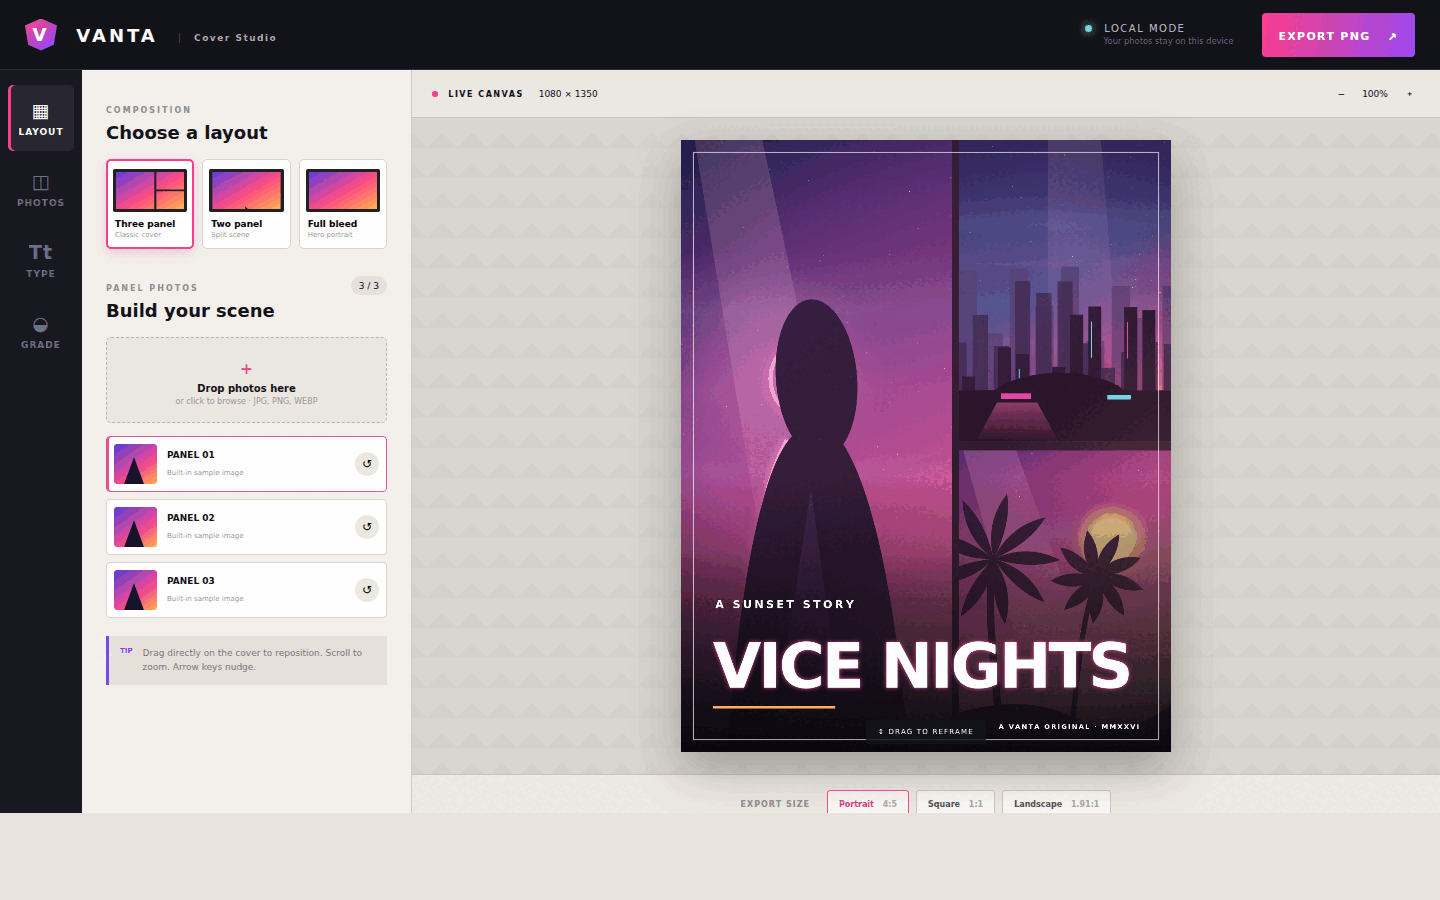
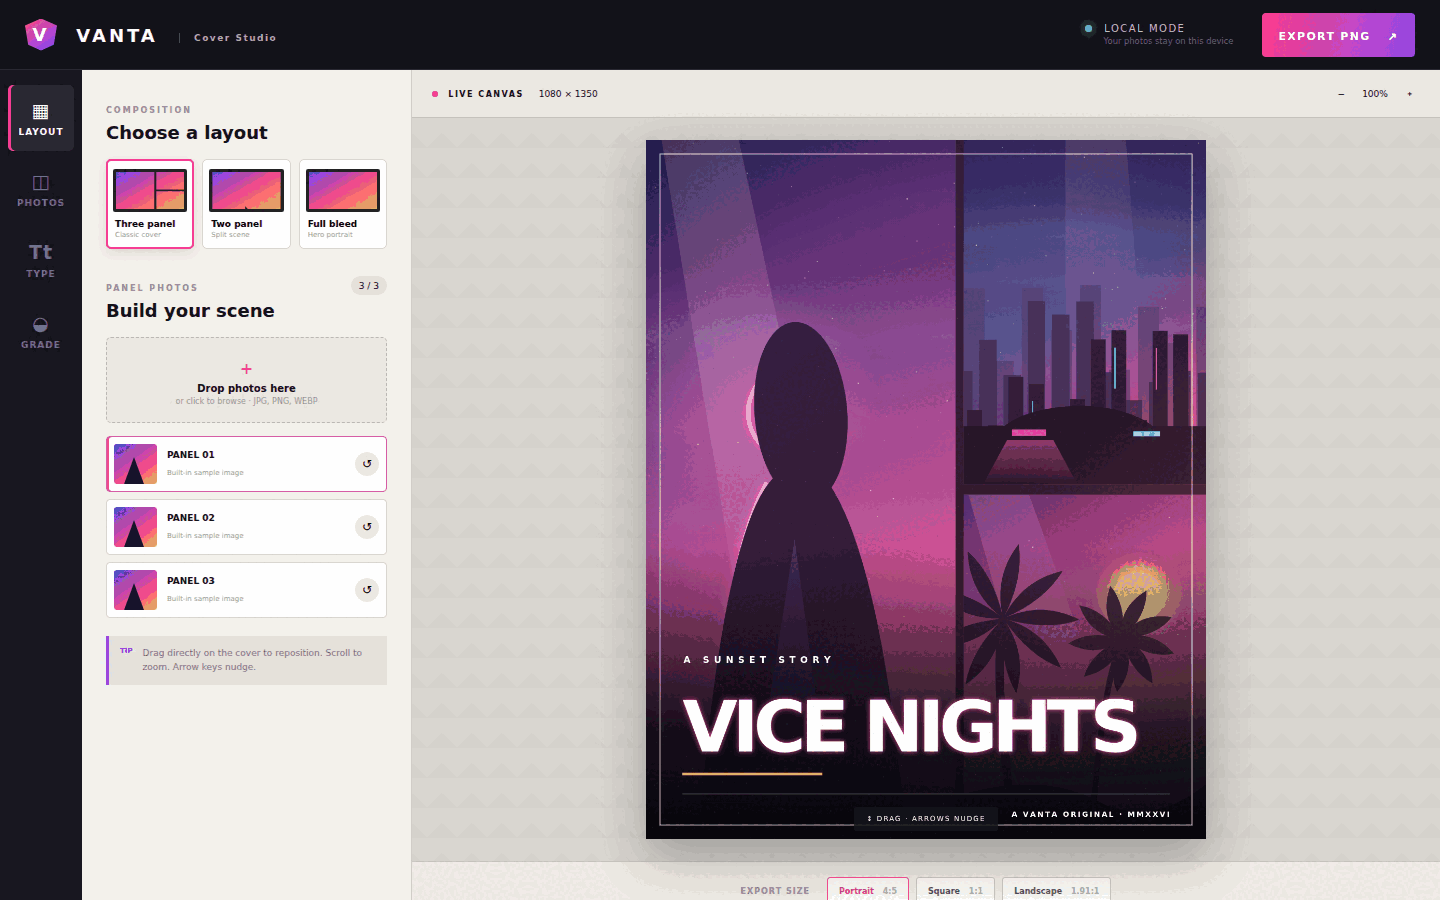
Refine cover typography and keyboard controls

diff --git a/app/app.js b/app/app.js
@@ -347,24 +347,27 @@ function measuredText(context, text, x, y, size, tracking, align = "left") {
 
 function drawTypography(context, width, height) {
   const grade = GRADES[state.grade];
-  const band = context.createLinearGradient(0, height * 0.55, 0, height);
+  const band = context.createLinearGradient(0, height * 0.58, 0, height);
   band.addColorStop(0, "#100b1800");
-  band.addColorStop(0.45, "#100b1890");
-  band.addColorStop(1, "#08070ff5");
+  band.addColorStop(0.26, "#100b1866");
+  band.addColorStop(0.62, "#0c0915dc");
+  band.addColorStop(1, "#06060bfc");
   context.fillStyle = band;
-  context.fillRect(0, height * 0.5, width, height * 0.5);
+  context.fillRect(0, height * 0.58, width, height * 0.42);
   context.fillStyle = "#ffffff";
-  measuredText(context, state.upper, width * 0.07, height * 0.765, height * 0.018, height * 0.004);
+  measuredText(context, state.upper, width * 0.067, height * 0.748, height * 0.013, height * 0.0065);
   const titleSize = Math.min(height * 0.102, width / (Math.max(8, state.title.length) * 0.57));
   context.save();
   context.shadowColor = grade.mid;
   context.shadowBlur = height * (state.bloom / 100) * 0.018;
-  measuredText(context, state.title, width * 0.065, height * 0.895, titleSize, -titleSize * 0.045);
+  measuredText(context, state.title, width * 0.065, height * 0.875, titleSize, -titleSize * 0.075);
   context.restore();
   context.fillStyle = grade.light;
-  context.fillRect(width * 0.065, height * 0.925, width * 0.25, Math.max(3, height * 0.004));
+  context.fillRect(width * 0.065, height * 0.905, width * 0.25, Math.max(3, height * 0.004));
+  context.fillStyle = "#ffffff52";
+  context.fillRect(width * 0.065, height * 0.935, width * 0.87, Math.max(1, height * 0.001));
   context.fillStyle = "#ffffff";
-  measuredText(context, state.credit, width * 0.935, height * 0.962, height * 0.011, height * 0.002, "right");
+  measuredText(context, state.credit, width * 0.935, height * 0.968, height * 0.0105, height * 0.0022, "right");
   context.strokeStyle = "#ffffffaa";
   context.lineWidth = Math.max(2, width * 0.002);
   context.strokeRect(width * 0.025, height * 0.02, width * 0.95, height * 0.96);
@@ -399,6 +402,15 @@ function render() {
   renderTo(preview, cover.width, cover.height);
   updatePanelList();
   $("#zoomLabel").textContent = `${Math.round(state.panels[state.activePanel].zoom * 100)}%`;
+  cover.setAttribute("aria-label", `Cover preview. Panel ${state.activePanel + 1} selected. Drag to pan, or use arrow keys to nudge; hold Shift for a larger step.`);
+}
+
+function nudgeActivePanel(key, largeStep) {
+  const panel = state.panels[state.activePanel];
+  const distance = largeStep ? 12 : 3;
+  panel.panX += key === "ArrowLeft" ? -distance : key === "ArrowRight" ? distance : 0;
+  panel.panY += key === "ArrowUp" ? -distance : key === "ArrowDown" ? distance : 0;
+  render();
 }
 
 function updatePanelList() {
@@ -408,8 +420,22 @@ function updatePanelList() {
     const panel = state.panels[index];
     const card = document.createElement("div");
     card.className = `panel-card${index === state.activePanel ? " active" : ""}`;
+    card.tabIndex = 0;
+    card.setAttribute("role", "group");
+    card.setAttribute("aria-label", `Focus panel ${index + 1} for keyboard nudging`);
     card.innerHTML = `<span class="thumb"></span><span><b>PANEL ${String(index + 1).padStart(2, "0")}</b><small>${panel.image ? "Your local photo" : "Built-in sample image"}</small></span><button title="Reset panel">↺</button>`;
     card.addEventListener("click", () => { state.activePanel = index; render(); });
+    card.addEventListener("focus", () => {
+      state.activePanel = index;
+      $$(".panel-card").forEach((item, itemIndex) => item.classList.toggle("active", itemIndex === index));
+      cover.setAttribute("aria-label", `Cover preview. Panel ${index + 1} selected. Drag to pan, or use arrow keys to nudge; hold Shift for a larger step.`);
+    });
+    card.addEventListener("keydown", (event) => {
+      if (!event.key.startsWith("Arrow")) return;
+      event.preventDefault();
+      nudgeActivePanel(event.key, event.shiftKey);
+      $$(".panel-card")[index].focus();
+    });
     $("button", card).addEventListener("click", (event) => {
       event.stopPropagation();
       Object.assign(panel, { panX: 0, panY: 0, zoom: 1 });
@@ -434,6 +460,7 @@ cover.addEventListener("pointerdown", (event) => {
   if (index >= 0) state.activePanel = index;
   state.drag = { x: event.clientX, y: event.clientY };
   cover.setPointerCapture(event.pointerId);
+  cover.focus();
   render();
 });
 cover.addEventListener("pointermove", (event) => {
@@ -456,11 +483,7 @@ cover.addEventListener("wheel", (event) => {
 cover.addEventListener("keydown", (event) => {
   if (!event.key.startsWith("Arrow")) return;
   event.preventDefault();
-  const panel = state.panels[state.activePanel];
-  const distance = event.shiftKey ? 10 : 3;
-  panel.panX += event.key === "ArrowLeft" ? -distance : event.key === "ArrowRight" ? distance : 0;
-  panel.panY += event.key === "ArrowUp" ? -distance : event.key === "ArrowDown" ? distance : 0;
-  render();
+  nudgeActivePanel(event.key, event.shiftKey);
 });
 
 function loadFiles(files) {

diff --git a/app/index.html b/app/index.html
@@ -11,7 +11,7 @@
   <header>
     <a class="brand" href="#"><span>V</span> VANTA <i>Cover Studio</i></a>
     <div class="privacy"><b></b> LOCAL MODE <small>Your photos stay on this device</small></div>
-    <button class="export top-export" id="exportBtn">EXPORT PNG <kbd>↗</kbd></button>
+    <button class="export top-export" id="exportBtn" type="button">EXPORT PNG <kbd>↗</kbd></button>
   </header>
   <main>
     <aside class="rail">
@@ -39,7 +39,7 @@
     </section>
     <section class="stage">
       <div class="stage-head"><div><span class="live"><i></i> LIVE CANVAS</span><span id="dimensions">1080 × 1350</span></div><div class="zoom-ui"><button id="zoomMinus">−</button><span id="zoomLabel">100%</span><button id="zoomPlus">＋</button></div></div>
-      <div class="canvas-wrap" id="canvasWrap"><canvas id="cover" width="1080" height="1350" tabindex="0" aria-label="Cover preview. Drag to pan selected panel."></canvas><span class="drag-note">↕ DRAG TO REFRAME</span></div>
+      <div class="canvas-wrap" id="canvasWrap"><canvas id="cover" width="1080" height="1350" tabindex="0" aria-label="Cover preview. Panel 1 selected. Drag to pan, or use arrow keys to nudge; hold Shift for a larger step."></canvas><span class="drag-note">↕ DRAG · ARROWS NUDGE</span></div>
       <div class="format-row"><span>EXPORT SIZE</span><button class="format active" data-size="1080,1350">Portrait <b>4:5</b></button><button class="format" data-size="1080,1080">Square <b>1:1</b></button><button class="format" data-size="1200,630">Landscape <b>1.91:1</b></button></div>
     </section>
   </main>

diff --git a/app/fit.css b/app/fit.css
@@ -8,3 +8,19 @@ canvas {
 }
 
 body.demo-drag canvas { cursor: grabbing; }
+
+.export:focus-visible {
+  outline: 3px solid #fff;
+  outline-offset: 3px;
+  box-shadow: 0 0 0 6px #ff3d8f66;
+}
+
+.panel-card:focus-visible {
+  outline: 2px solid var(--purple);
+  outline-offset: 2px;
+}
+
+canvas:focus-visible {
+  outline: 3px solid #ff3d8f;
+  outline-offset: 4px;
+}
